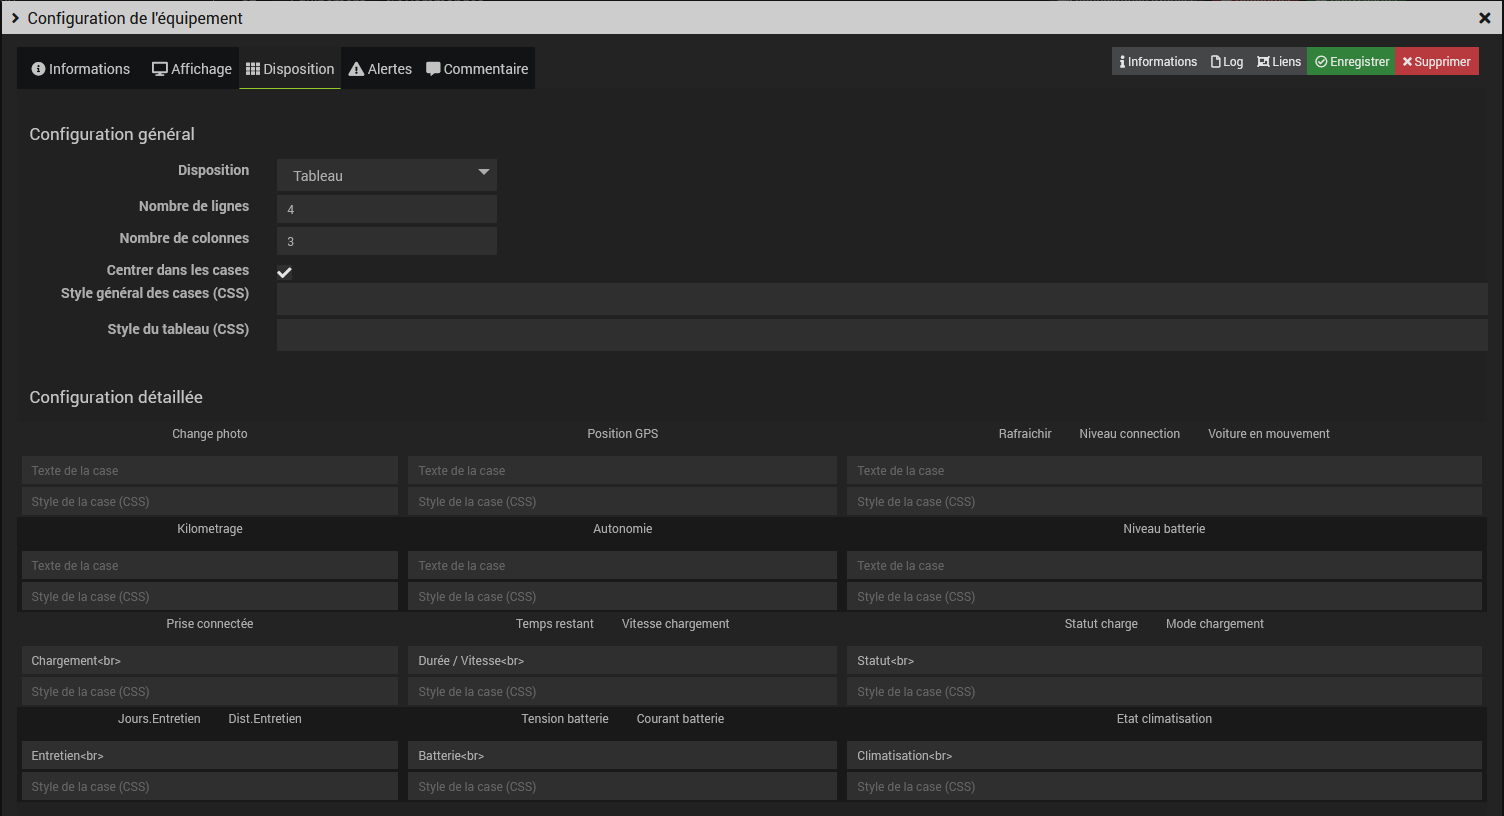
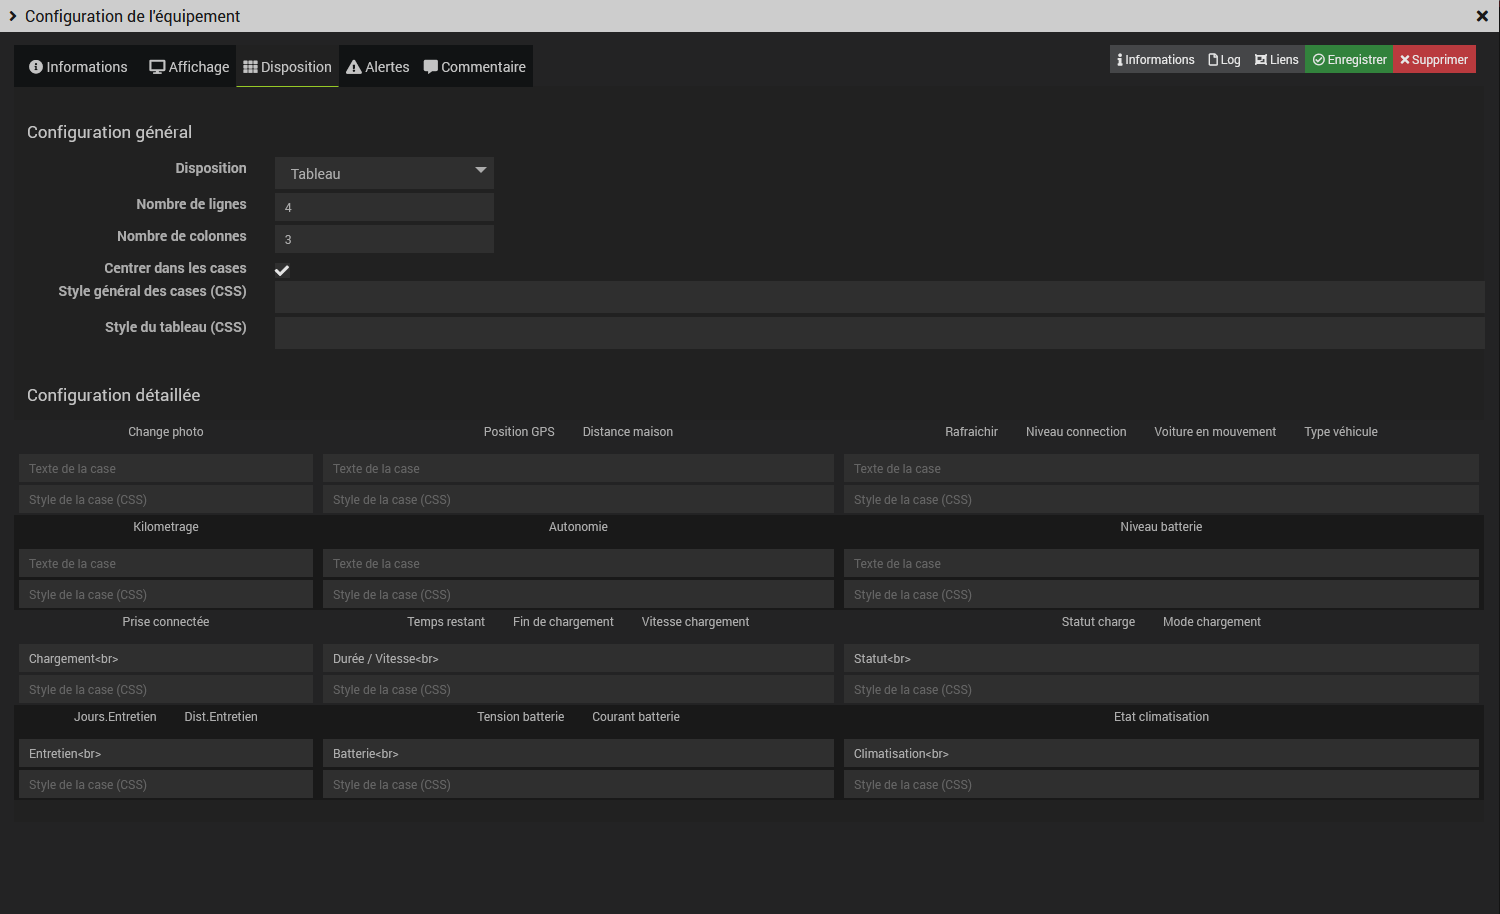
Version 0.4

diff --git a/desktop/js/peugeotcars.js b/desktop/js/peugeotcars.js
@@ -23,36 +23,40 @@ function addCmdToTable(_cmd) {
     if (init(_cmd.type) == 'info') {
         var tr = '<tr class="cmd" data-cmd_id="' + init(_cmd.id) + '" >';
         if (init(_cmd.logicalId) == 'brut') {
-			tr += '<input type="hiden" name="brutid" value="' + init(_cmd.id) + '">';
-		}
+          tr += '<input type="hiden" name="brutid" value="' + init(_cmd.id) + '">';
+        }
         tr += '<td>';
         tr += '<span class="cmdAttr" data-l1key="id"></span>';
         tr += '</td>';
         tr += '<td>';
         tr += '<input class="cmdAttr form-control input-sm" data-l1key="name" style="width : 140px;" placeholder="{{Nom}}"></td>';
-		tr += '<td class="expertModeVisible">';
+        tr += '<td class="expertModeVisible">';
         tr += '<input class="cmdAttr form-control type input-sm" data-l1key="type" value="action" disabled style="margin-bottom : 5px;" />';
         tr += '<span class="subType" subType="' + init(_cmd.subType) + '"></span>';
         tr += '</td>';
         tr += '<td>';
-        tr += '<span><input type="checkbox" class="cmdAttr" data-l1key="isHistorized"/> {{Historiser}}<br/></span>';
-        tr += '<span><input type="checkbox" class="cmdAttr" data-l1key="isVisible" checked/> {{Afficher}}<br/></span>';
-		if (init(_cmd.subType) == 'binary') {
-			tr += '<span class="expertModeVisible"><input type="checkbox" class="cmdAttr" data-l1key="display" data-l2key="invertBinary" /> {{Inverser}}<br/></span>';
-		}
+        tr += '<span><input type="checkbox" class="cmdAttr" data-l1key="isVisible" checked/> {{Afficher }}</span>';
+        tr += '<span><input type="checkbox" class="cmdAttr" data-l1key="isHistorized"/> {{Historiser}}<br></span>';
+        tr += '<input class="cmdAttr form-control tooltips input-sm" data-l1key="unite" style="margin-top: 10px;margin-right: 10px;width: 25%;display: inline-block;" placeholder="Unité" title="{{Unité de la donnée (Wh, A, kWh...) pour plus d\'informations aller voir le wiki}}">';
+        if (init(_cmd.subType) == 'binary') {
+          tr += '<span class="expertModeVisible"><input type="checkbox" class="cmdAttr" data-l1key="display" data-l2key="invertBinary" /> {{Inverser}}</span>';
+        }
         if (init(_cmd.logicalId) == 'reel') {
-			tr += '<span class="expertModeVisible"><input type="checkbox" class="cmdAttr" data-l1key="configuration" data-l2key="minValueReplace" value="1"/> {{Correction Min	 Auto}}<br>';
-			tr += '<input type="checkbox" class="cmdAttr" data-l1key="configuration" data-l2key="maxValueReplace" value="1"/> {{Correction Max Auto}}<br></span>';
-		}        tr += '</td>';
-        tr += '<td>';
-        if (is_numeric(_cmd.id)) {
-            tr += '<a class="btn btn-default btn-xs cmdAction expertModeVisible" data-action="configure"><i class="fa fa-cogs"></i></a> ';
+          tr += '<span class="expertModeVisible"><input type="checkbox" class="cmdAttr" data-l1key="configuration" data-l2key="minValueReplace" value="1"/> {{Correction Min	 Auto}}<br>';
+          tr += '<input type="checkbox" class="cmdAttr" data-l1key="configuration" data-l2key="maxValueReplace" value="1"/> {{Correction Max Auto}}<br></span>';
         }
         tr += '</td>';
-		table_cmd = '#table_cmd';
-		if ( $(table_cmd+'_'+_cmd.eqType ).length ) {
-			table_cmd+= '_'+_cmd.eqType;
-		}
+        tr += '<td>';
+        if (is_numeric(_cmd.id)) {
+          tr += '<a class="btn btn-default btn-xs cmdAction expertModeVisible" data-action="configure"><i class="fa fa-cogs"></i></a> ';
+          tr += '<a class="btn btn-default btn-xs cmdAction" data-action="test"><i class="fa fa-rss"></i> {{Tester}}</a>';
+        }
+        tr += '<i class="fa fa-minus-circle pull-right cmdAction cursor" data-action="remove"></i>';
+        tr += '</td>';
+        table_cmd = '#table_cmd';
+        if ( $(table_cmd+'_'+_cmd.eqType ).length ) {
+          table_cmd+= '_'+_cmd.eqType;
+        }
         $(table_cmd+' tbody').append(tr);
         $(table_cmd+' tbody tr:last').setValues(_cmd, '.cmdAttr');
     }
@@ -79,13 +83,14 @@ function addCmdToTable(_cmd) {
             tr += '<a class="btn btn-default btn-xs cmdAction expertModeVisible" data-action="configure"><i class="fa fa-cogs"></i></a> ';
             tr += '<a class="btn btn-default btn-xs cmdAction" data-action="test"><i class="fa fa-rss"></i> {{Tester}}</a>';
         }
+        tr += '<i class="fa fa-minus-circle pull-right cmdAction cursor" data-action="remove"></i>';
         tr += '</td>';
         tr += '</tr>';
 
-		table_cmd = '#table_cmd';
-		if ( $(table_cmd+'_'+_cmd.eqType ).length ) {
-			table_cmd+= '_'+_cmd.eqType;
-		}
+        table_cmd = '#table_cmd';
+        if ( $(table_cmd+'_'+_cmd.eqType ).length ) {
+          table_cmd+= '_'+_cmd.eqType;
+        }
         $(table_cmd+' tbody').append(tr);
         $(table_cmd+' tbody tr:last').setValues(_cmd, '.cmdAttr');
         var tr = $(table_cmd+' tbody tr:last');
@@ -93,11 +98,11 @@ function addCmdToTable(_cmd) {
             id: $(".li_eqLogic.active").attr('data-eqLogic_id'),
             filter: {type: 'info'},
             error: function (error) {
-                $('#div_alert').showAlert({message: error.message, level: 'danger'});
+              $('#div_alert').showAlert({message: error.message, level: 'danger'});
             },
             success: function (result) {
-                tr.find('.cmdAttr[data-l1key=value]').append(result);
-                tr.setValues(_cmd, '.cmdAttr');
+              tr.find('.cmdAttr[data-l1key=value]').append(result);
+              tr.setValues(_cmd, '.cmdAttr');
             }
         });
     }
@@ -105,26 +110,6 @@ function addCmdToTable(_cmd) {
 
 $("#table_cmd").sortable({axis: "y", cursor: "move", items: ".cmd", placeholder: "ui-state-highlight", tolerance: "intersect", forcePlaceholderSize: true});
 
-$('.eqLogicDetect').on('click', function() {
-    $.ajax({// fonction permettant de faire de l'ajax
-        type: "POST", // methode de transmission des données au fichier php
-        url: "plugins/peugeotcars/core/ajax/peugeotcars.ajax.php", // url du fichier php
-        data: {
-            action: "force_detect_movers",
-        },
-        dataType: 'json',
-        error: function(request, status, error) {
-            handleAjaxError(request, status, $('#div_DetectBin'));
-        },
-        success: function(data) { // si l'appel a bien fonctionné
-			if (data.state != 'ok') {
-				$('#div_alert').showAlert({message: data.result, level: 'danger'});
-                return;
-			}
-			window.location.reload();
-		}
-    });
-});
 
 
 

diff --git a/desktop/js/panel.js b/desktop/js/panel.js
@@ -431,7 +431,7 @@ function display_trips(number) {
       pts_ts   = parseInt  (tmp[0],10);  // Timestamp
       pts_lat  = parseFloat(tmp[1]);     // Lat
       pts_lon  = parseFloat(tmp[2]);     // Lon
-      pts_head = parseFloat(tmp[3]);     // Heading
+      pts_alt  = parseFloat(tmp[3]);     // Altitude
       batt_level  = parseFloat(tmp[4]);     // Battery level
       mileage     = parseFloat(tmp[5]);     // mileage
       moving      = parseInt(tmp[6],10);    // kinetic

diff --git a/core/template/dashboard/cmd.info.string.opensmap.html b/core/template/dashboard/cmd.info.string.opensmap.html
@@ -17,7 +17,7 @@
       gps_pos = hist.split(',');
       var lat = gps_pos[0];
       var lon = gps_pos[1];
-      var head = gps_pos[2];
+      var alt = gps_pos[2];
       //alert ("GPS:"+lat + "/" + lon);
       // Fonction d'initialisation de la carte
       function initMap() {

diff --git a/core/class/peugeotcars.class.php b/core/class/peugeotcars.class.php
@@ -67,13 +67,14 @@ class peugeotcars extends eqLogic {
                       "gps_position"         => array('Position GPS',        'info',  'string',     "", 0, 1, "GENERIC_INFO",   'peugeotcars::opensmap',   'peugeotcars::opensmap'),
                       "gps_position_lat"     => array('Position GPS Lat.',   'info',  'string',     "", 0, 0, "GENERIC_INFO",   'core::badge', 'core::badge'),
                       "gps_position_lon"     => array('Position GPS Lon.',   'info',  'string',     "", 0, 0, "GENERIC_INFO",   'core::badge', 'core::badge'),
+                      "gps_position_alt"     => array('Position GPS Alt.',   'info',  'string',     "", 0, 0, "GENERIC_INFO",   'core::badge', 'core::badge'),
                       "gps_dist_home"        => array('Distance maison',     'info',  'numeric',  "km", 1, 1, "GENERIC_INFO",   'core::line', 'core::line'),
                       "conn_level"           => array('Niveau connection',   'info',  'numeric',    "", 1, 1, "GENERIC_INFO",   'peugeotcars::con_level',  'peugeotcars::con_level'),
                       "kinetic_moving"       => array('Voiture en mouvement','info',  'binary',     "", 1, 1, "GENERIC_INFO",   'peugeotcars::veh_moving', 'peugeotcars::veh_moving'),
                       "record_period"        => array('Période enregistrement','info','numeric',    "", 1, 0, "GENERIC_INFO",   'core::badge', 'core::badge'),
                       "charging_plugged"     => array('Prise connectée',     'info',  'binary',     "", 1, 1, "GENERIC_INFO",   'peugeotcars::plugged', 'peugeotcars::plugged'),
                       "charging_status"      => array('Statut charge',       'info',  'string',     "", 1, 1, "GENERIC_INFO",   'core::badge', 'core::badge'),
-                      "charging_remain_time" => array('Temps de chage',      'info',  'string',     "", 1, 1, "GENERIC_INFO",   'core::badge', 'core::badge'),
+                      "charging_remain_time" => array('Temps de charge',     'info',  'string',     "", 1, 1, "GENERIC_INFO",   'core::badge', 'core::badge'),
                       "charging_end_time"    => array('Fin de charge',       'info',  'string',     "", 0, 1, "GENERIC_INFO",   'core::badge', 'core::badge'),
                       "charging_rate"        => array('Vitesse de charge',   'info',  'numeric',"km/h", 1, 1, "GENERIC_INFO",   'core::line', 'core::line'),
                       "charging_mode"        => array('Mode de charge',      'info',  'string',     "", 1, 1, "GENERIC_INFO",   'core::badge', 'core::badge'),
@@ -334,7 +335,6 @@ class peugeotcars extends eqLogic {
           $cmd = $this->getCmd(null, "battery_current");
           $batt_current = $ret["batt_current"];
           $cmd->event($batt_current);
-          $cmd_gps = $this->getCmd(null, "gps_position");
           // infos complementaires pour vehicule hybride
           if ($veh_type == "hybrid") {
             $cmd = $this->getCmd(null, "fuel_level");
@@ -352,27 +352,36 @@ class peugeotcars extends eqLogic {
             $cmd->event($fuel_auto);
           }
           // Etat courant du trajet
+          $cmd_gps = $this->getCmd(null, "gps_position");
           $trip_start_ts       = $cmd_gps->getConfiguration('trip_start_ts');
           $trip_start_mileage  = $cmd_gps->getConfiguration('trip_start_mileage');
           $trip_start_battlevel= $cmd_gps->getConfiguration('trip_start_battlevel');
           $trip_in_progress    = $cmd_gps->getConfiguration('trip_in_progress');
-          $gps_position = $ret["gps_lat"].",".$ret["gps_lon"].",".$ret["gps_head"];
-          $previous_gps_position = $cmd_gps->execCmd();
-          //log::add('peugeotcars','debug',"Refresh log previous_gps_position=".$previous_gps_position);
-          $cmd_gps->event($gps_position);
-          $cmd_gpslat = $this->getCmd(null, "gps_position_lat");
-          $cmd_gpslat->event($ret["gps_lat"]);
-          $cmd_gpslon = $this->getCmd(null, "gps_position_lon");
-          $cmd_gpslon->event($ret["gps_lon"]);
-          // Calcul distance maison
-          $lat_home = deg2rad(floatval(config::byKey("info::latitude")));
-          $lon_home = deg2rad(floatval(config::byKey("info::longitude")));
-          $lat_veh = deg2rad(floatval($ret["gps_lat"]));
-          $lon_veh = deg2rad(floatval($ret["gps_lon"]));
-          $dist = 6371.01 * acos(sin($lat_home)*sin($lat_veh) + cos($lat_home)* cos($lat_veh)*cos($lon_home - $lon_veh)); // calcul de la distance
-          $dist = number_format($dist, 3, '.', '');//formatage 3 décimales
-          $cmd_dis_home = $this->getCmd(null, "gps_dist_home");
-          $cmd_dis_home->event($dist);
+          if (($ret["gps_lat"] == 0) && ($ret["gps_lat"] == 0))
+            $gps_pts_ok = false; // points GPS non valide
+          else
+            $gps_pts_ok = true;
+          if ($gps_pts_ok == true) {
+            $gps_position = $ret["gps_lat"].",".$ret["gps_lon"].",".$ret["gps_alt"];
+            $previous_gps_position = $cmd_gps->execCmd();
+            //log::add('peugeotcars','debug',"Refresh log previous_gps_position=".$previous_gps_position);
+            $cmd_gps->event($gps_position);
+            $cmd_gpslat = $this->getCmd(null, "gps_position_lat");
+            $cmd_gpslat->event($ret["gps_lat"]);
+            $cmd_gpslon = $this->getCmd(null, "gps_position_lon");
+            $cmd_gpslon->event($ret["gps_lon"]);
+            $cmd_gpsalt = $this->getCmd(null, "gps_position_alt");
+            $cmd_gpsalt->event($ret["gps_alt"]);
+            // Calcul distance maison
+            $lat_home = deg2rad(floatval(config::byKey("info::latitude")));
+            $lon_home = deg2rad(floatval(config::byKey("info::longitude")));
+            $lat_veh = deg2rad(floatval($ret["gps_lat"]));
+            $lon_veh = deg2rad(floatval($ret["gps_lon"]));
+            $dist = 6371.01 * acos(sin($lat_home)*sin($lat_veh) + cos($lat_home)* cos($lat_veh)*cos($lon_home - $lon_veh)); // calcul de la distance
+            $dist = number_format($dist, 3, '.', '');//formatage 3 décimales
+            $cmd_dis_home = $this->getCmd(null, "gps_dist_home");
+            $cmd_dis_home->event($dist);
+          }
           // Autres infos
           $cmd = $this->getCmd(null, "conn_level");
           $conn_level = $ret["conn_level"];
@@ -420,9 +429,11 @@ class peugeotcars extends eqLogic {
           }
           // Log position courante vers GPS log file
 //          if (($gps_position !== $previous_gps_position) || ($trip_event == 1)) {
-            $gps_log_dt = $ctime.",".$gps_position.",".$batt_level.",".$mileage.",".$kinetic_moving."\n";
-            log::add('peugeotcars','debug',"Refresh->recording Gps_dt=".$gps_log_dt);
-            file_put_contents($fn_car_gps, $gps_log_dt, FILE_APPEND | LOCK_EX);
+            if ($gps_pts_ok == true) {
+              $gps_log_dt = $ctime.",".$gps_position.",".$batt_level.",".$mileage.",".$kinetic_moving."\n";
+              log::add('peugeotcars','debug',"Refresh->recording Gps_dt=".$gps_log_dt);
+              file_put_contents($fn_car_gps, $gps_log_dt, FILE_APPEND | LOCK_EX);
+            }
             // enregistre le ts du point courant
             $cmd_mlg->setConfiguration('prev_ctime', $ctime);
             $cmd_mlg->save();

diff --git a/3rdparty/peugeotcars_api3.class.php b/3rdparty/peugeotcars_api3.class.php
@@ -344,12 +344,15 @@ class peugeotcars_api3 {
     // file_put_contents($fn_log_sts, $log_dt, FILE_APPEND | LOCK_EX);
     // end trace analysis
     $retf = [];
-    $retf["gps_lon"]  = $ret["result"]->lastPosition->geometry->coordinates[0];
-    $retf["gps_lat"]  = $ret["result"]->lastPosition->geometry->coordinates[1];
-    if (count($ret["result"]->lastPosition->geometry) >= 2)
-      $retf["gps_head"] = $ret["result"]->lastPosition->geometry->coordinates[2];
-    else
-      $retf["gps_head"] = 0;
+    $retf["gps_lon"] = 0;
+    $retf["gps_lat"] = 0;
+    $retf["gps_alt"] = 0;
+    if (count($ret["result"]->lastPosition->geometry->coordinates) >= 2) {
+      $retf["gps_lon"]  = $ret["result"]->lastPosition->geometry->coordinates[0];
+      $retf["gps_lat"]  = $ret["result"]->lastPosition->geometry->coordinates[1];
+    }
+    if (count($ret["result"]->lastPosition->geometry->coordinates) >= 3)
+      $retf["gps_alt"] = $ret["result"]->lastPosition->geometry->coordinates[2];
     if (isset($ret["result"]->lastPosition->properties->signalQuality))
       $retf["conn_level"]   = $ret["result"]->lastPosition->properties->signalQuality;
     $retf["batt_voltage"] = $ret["result"]->battery->voltage;

diff --git a/core/ajax/peugeotcars.ajax.php b/core/ajax/peugeotcars.ajax.php
@@ -76,7 +76,7 @@ function get_car_trips_gps($vin, $ts_start, $ts_end)
   if ($fcar) {
     while (($buffer = fgets($fcar, 4096)) !== false) {
       // extrait les timestamps debut et fin du trajet
-      list($pts_ts, $pts_lat, $pts_lon, $pts_head, $pts_batt, $pts_mlg, $pts_moving) = explode(",", $buffer);
+      list($pts_ts, $pts_lat, $pts_lon, $pts_alt, $pts_batt, $pts_mlg, $pts_moving) = explode(",", $buffer);
       $pts_tsi = intval($pts_ts);
       // selectionne les trajets selon leur date depart&arrive
       if (($pts_tsi>=$first_ts) && ($pts_tsi<=$last_ts)) {

diff --git a/README.md b/README.md
@@ -9,11 +9,12 @@ Les informations disponibles dans le widgets sont:
 * Charge de la batterie, autonomie et kilométrage de la voiture
 * Information sur le chargement de la batterie (Prise connectée, temps de chargement, vitesse de chargement..)
 * Nombre de jours et kilomètres jusqu'au prochain entretien du véhicule
-* Situation du véhicule sur une carte (Position GPS), et information si le véhicule se déplace.
+* Situation du véhicule sur une carte (Position GPS), distance au domicile, et information si le véhicule se déplace.
 
-Ce plugin a été développé et testé avec un véhicule Peugeot 208 électrique. 
-Il doit fonctionner pour les autres véhicules électriques ou essence/Diesel de la marque, mais il y aura sans doute quelques infos manquantes.
- 
+Ce plugin a été développé et testé avec un véhicule Peugeot 208 électrique. <br>
+Il a été testé également sur d'autres 208 électrique, et sur un SUV 3008 hybride. <br>
+Il semble qu'il ne fonctionne pas pour les véhicules thermiques. <br>
+(Il serait intéressant toutefois de le tester sur une voiture 208 thermique de dernière génération)<br>
 
 <p align="left">
   <img src="../master/doc/images/widget.png" width="400" title="Widget dashboard">
@@ -23,6 +24,7 @@ Il doit fonctionner pour les autres véhicules électriques ou essence/Diesel de
 * Tag pgc_v0.1: Version draft originale du 19/10/2020
 * Tag pgc_v0.2: Version draft avec correction plantage Jeedom (20/10/2020)
 * Tag pgc_v0.3: Première version connectée du plugin (20/10/2020)
+* Tag pgc_v0.4: ajout des particularités pour véhicule hybride, et quelques améliorations (14/01/2021)
 
 ## Installation
 Par source Github:
@@ -96,7 +98,7 @@ Les opérations principales d'entretion sont données également.
 </p>
 
 **Bugs connus:**
-Cette version 0.3 est encore draft. Il y a quelques bugs connus mais non pénalisants
+Cette version 0.4 est encore draft. Il y a quelques bugs connus mais non pénalisants
 * Javascript erreur : "ReferenceError: L is not defined" (affichée dans la barre de titre de jeedom) <br>
   Problème de temps de chargement de la librairie Leaflet.
   Ce bug empèche l'affichage de la carte dans le widget lors du rafraichissement de la page Dashboard.
